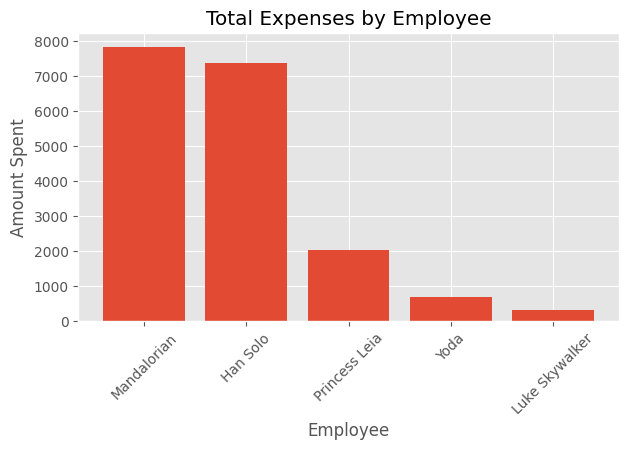
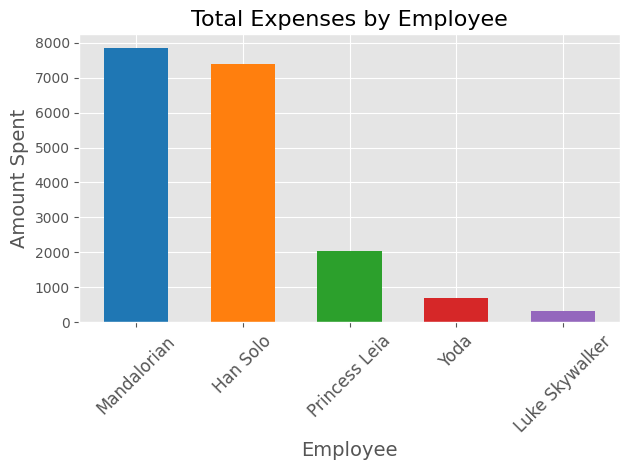
project submitted

diff --git a/report_generation.py b/report_generation.py
@@ -1,15 +1,16 @@
-from data_visualization import generateVisualizations
-from reportlab.lib.pagesizes import letter
-from reportlab.lib.units import inch
-from reportlab.pdfgen import canvas
-from reportlab.lib import colors
-from reportlab.platypus import SimpleDocTemplate, Spacer, Table, TableStyle, Paragraph, PageBreak, Image
+from data_visualization import generateVisualizations # used to generate charts and graphs visuals
+from reportlab.lib.pagesizes import letter # used to set the page size of the report
+from reportlab.lib.units import inch # used to set the margins of the report
+from reportlab.pdfgen import canvas # used to create PDF canvas
+from reportlab.lib import colors # used to set the colors for tables and text
+# used to create the document template, spacing, tables, table styles, paragraphs, page breaks, and images.
+from reportlab.platypus import SimpleDocTemplate, Spacer, Table, TableStyle, Paragraph, PageBreak, Image 
 
-
-import io
-import os
-import pandas as pd
-from styles import titleStyle, sectionHeaderStyle, subheaderStyle, bodyStyle, tableOfContentsHeader
+import io # used for file handling
+import os # used for interacting with my operating system
+import pandas as pd # used for data manipulation
+# used to import the styles from the styles.py file
+from styles import titleStyle, sectionHeaderStyle, subheaderStyle, bodyStyle, tableOfContentsHeader 
 
 # function to generate report
 def generateReport(processedExpenseData, df):
@@ -39,13 +40,13 @@ def generateReport(processedExpenseData, df):
     story = []
 
     # add the cover page to the PDF
+    story.append(Spacer(1, 3 * inch))
     story.append(Paragraph("April's", titleStyle))
-    story.append(Spacer(1, 0.5 * inch))
+    story.append(Spacer(1, 0.25 * inch))
     story.append(Paragraph("Expense", titleStyle))
-    story.append(Spacer(1, 0.5 * inch))
+    story.append(Spacer(1, 0.25 * inch))
     story.append(Paragraph("Report", titleStyle))
-    story.append(Spacer(1, 0.5 * inch))
-    story.append(Spacer(1, 0.5 * inch))
+    story.append(Spacer(1, 0.25 * inch))
     #TODO: hmmm i wonder for future feature to add company name and logo
     # story.append(Paragraph("Company Name: ", bodyStyle)) 
     # story.append(Image("totalExpensesByCategoryPieChart.png", width=5*inch, height=5*inch)) 
@@ -53,6 +54,7 @@ def generateReport(processedExpenseData, df):
 
     # add the table of contents to PDF 
     # TODO: clickable links to each section is also a future feature idea
+    story.append(Spacer(1, 3.25 * inch))
     story.append(Paragraph("Table of Contents", tableOfContentsHeader))
     story.append(Spacer(1, 0.25 * inch))
     story.append(Paragraph("<u>Summary</u>", subheaderStyle))
@@ -165,21 +167,24 @@ def generateReport(processedExpenseData, df):
     generateVisualizations(processedExpenseData) 
 
     # add the titles
+    story.append(Spacer(1, 3 * inch))
     story.append(Paragraph("Charts", titleStyle))
     story.append(Spacer(1, 0.2 * inch))
     story.append(Paragraph("& Graphs", titleStyle))
     story.append(Spacer(1, 0.2 * inch))
+    story.append(PageBreak())
 
     # add title and pie chart
     story.append(Paragraph("<b>Total Expenses by Category</b>", subheaderStyle))
-    story.append(Spacer(1, 0.25 * inch))
+    story.append(Spacer(1, 0.15 * inch))
     story.append(Image("expenseByCategoryPieChart.png", width=7*inch, height=7*inch))
     story.append(Spacer(1, 0.25 * inch))
+    story.append(PageBreak())
 
     # add title and bar chart
     story.append(Paragraph("<b>Total Expenses by Employee</b>", subheaderStyle))
     story.append(Spacer(1, 0.25 * inch))
-    story.append(Image("expenseByEmployeeBarChart.png", width=5*inch, height=5*inch))
+    story.append(Image("expenseByEmployeeBarChart.png", width=5*inch, height=8*inch))
     story.append(Spacer(1, 0.25 * inch))
     story.append(PageBreak())
 

diff --git a/data_visualization.py b/data_visualization.py
@@ -3,24 +3,30 @@ import matplotlib.pyplot as plt
 import matplotlib.colors as mcolors
 import pandas as pd
 
+
 def generateVisualizations(processedExpenseData):
     """
     Generate visualizations for the expense data and return a dictionary of
     the visualizations.
+
+    :param processedExpenseData: The processed expense data.
+    :return: A dictionary containing the visualizations.
+
     """
 
-    # style the visualizations
+    # set color palette and style for the visualizations
     colors = mcolors.TABLEAU_COLORS
     plt.style.use('ggplot')
 
-    # dictionary to store the visualizations
+    # initialize an empty dictionary to store visualizations
     visualizations = {}
 
-    # Pie chart for total expenses by category
+    # create a pie chart for total expenses by category
     totalByCategory = processedExpenseData['totalByCategory']
     categoryLabels = totalByCategory['ExpenseCategory']
     categoryAmounts = totalByCategory['Amount']
-    plt.pie(categoryAmounts, labels=categoryLabels, autopct='%1.1f%%', colors=colors.values(), textprops={'fontsize': 12})
+    plt.pie(categoryAmounts, labels=categoryLabels, autopct='%1.1f%%',
+            colors=colors.values(), textprops={'fontsize': 12})
     plt.title('Total Expenses by Category', fontsize=16)
     plt.axis('equal')
     plt.tight_layout(pad=1.5)
@@ -28,46 +34,26 @@ def generateVisualizations(processedExpenseData):
     plt.clf()
     visualizations['expenseByCategoryPieChart'] = 'expenseByCategoryPieChart.png'
 
-    # Bar chart for total expenses by employee
+    # create a bar chart for total expenses by employee
     totalByEmployee = processedExpenseData['totalByEmployee']
     employeeLabels = totalByEmployee['EmployeeName']
     employeeAmounts = totalByEmployee['Amount']
     fig, ax = plt.subplots()
 
-    bar_width = 0.6
-    bar_positions = np.arange(len(employeeLabels))
+    barWidth = 0.6
+    barPositions = np.arange(len(employeeLabels))
 
-    ax.bar(bar_positions, employeeAmounts, bar_width, color=colors.values())
-
+    # plot the bar chart using the Axes object
+    ax.bar(barPositions, employeeAmounts, barWidth, color=colors.values())
     ax.set_xlabel('Employee', fontsize=14)
     ax.set_ylabel('Amount Spent', fontsize=14)
     ax.set_title('Total Expenses by Employee', fontsize=16)
-    ax.set_xticks(bar_positions)
+    ax.set_xticks(barPositions)
     ax.set_xticklabels(employeeLabels, fontsize=12, rotation=45)
 
     plt.tight_layout()
     plt.savefig('expenseByEmployeeBarChart.png', bbox_inches='tight')
     plt.clf()
-    plt.bar(employeeLabels, employeeAmounts)
-    plt.xlabel('Employee')
-    plt.ylabel('Amount Spent')
-    plt.title('Total Expenses by Employee')
-    plt.xticks(rotation=45)
-    plt.savefig('expenseByEmployeeBarChart.png', bbox_inches='tight')
-    plt.clf()
     visualizations['expenseByEmployeeBarChart'] = 'expenseByEmployeeBarChart.png'
-
-    # # Bar chart for total expenses by month
-    # totalByMonth = processedExpenseData['totalByMonth']
-    # monthLabels = totalByMonth['Month']
-    # monthAmounts = totalByMonth['Amount']
-    # plt.bar(monthLabels, monthAmounts)
-    # plt.xlabel('Month')
-    # plt.ylabel('Amount Spent')
-    # plt.title('Total Expenses by Month')
-    # plt.xticks(rotation=45)
-    # plt.savefig('expenseByMonthBarChart.png', bbox_inches='tight')
-    # plt.clf()
-    # visualizations['expenseByMonthBarChart'] = 'expenseByMonthBarChart.png'
 
     return visualizations

diff --git a/main.py b/main.py
@@ -16,7 +16,7 @@ def main():
     """
     The main function of the script, which coordinates the different components
     of the system: data import, data processing, visualization, and report generation.
-    
+
     """
     try: 
         # read the input data from the CSV file
@@ -24,7 +24,7 @@ def main():
 
         # process the expense data (df) to calculate various statistics and group the data by categories, employees, and months
         processedExpenseData = data_processing.processExpenseData(df)
- 
+  
         # generate the report with visualizations and save it to a PDF file
         pdfFile = report_generation.generateReport(processedExpenseData, df)
 

diff --git a/data_processing.py b/data_processing.py
@@ -35,8 +35,9 @@ def processExpenseData(df):
     top5Transactions = df.nlargest(5, 'Amount')
 
     
-
+    # convert the ExpenseDate column to datetime
     df['ExpenseDate'] = pd.to_datetime(df['ExpenseDate'])
+
     # df['Month'] = df['ExpenseDate'].dt.to_period('M')
     # totalByMonth = df.groupby('Month')['Amount'].sum().reset_index()
     # # sort expenses by descending order for each month
